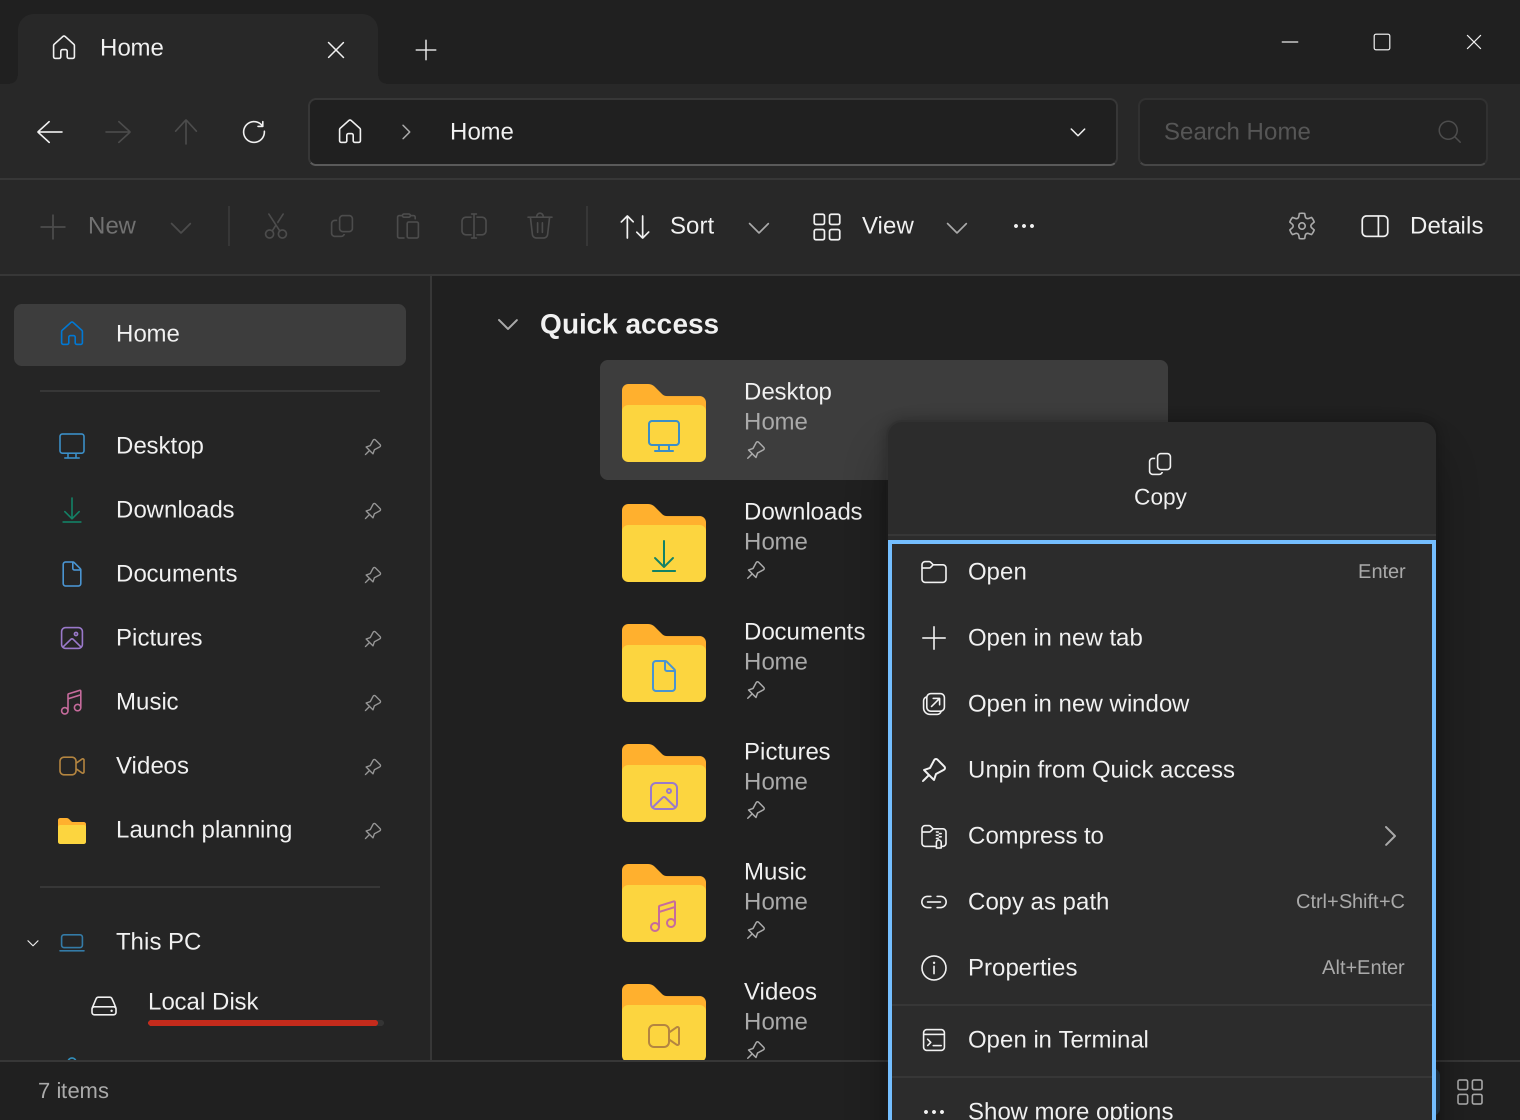
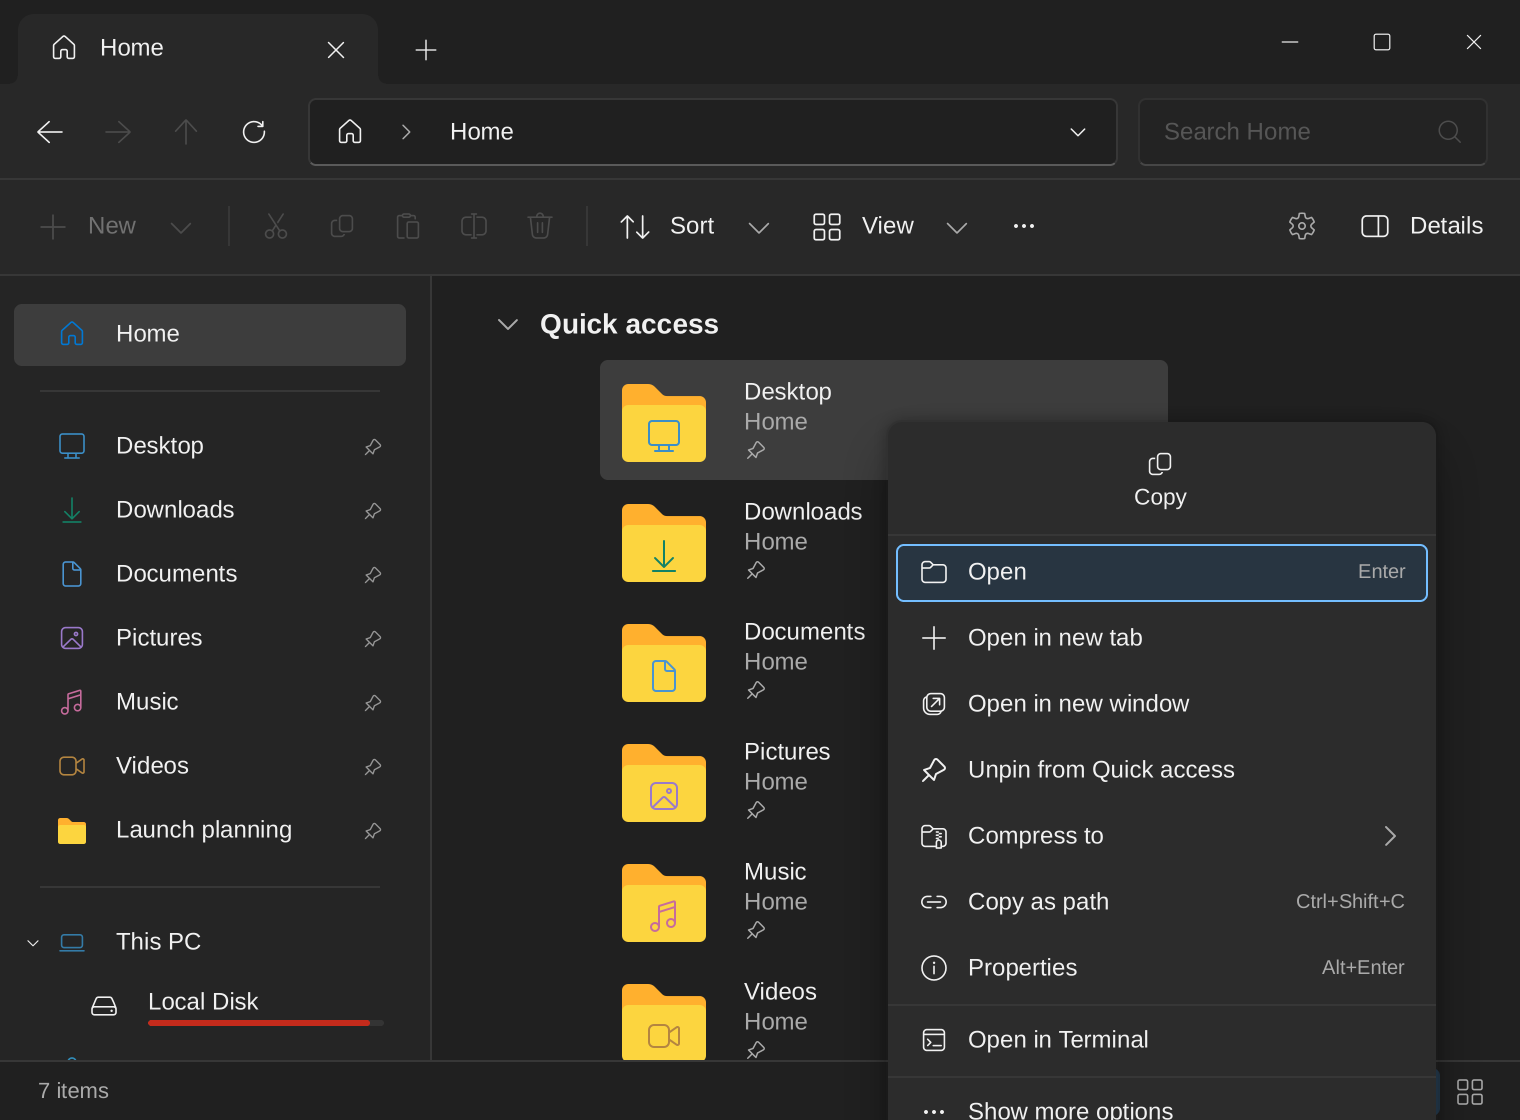
status(windows-differences-2): WORKING, tile menu ring fixed, recaptured

Changed region(s): [[0.5875, 0.4688, 0.9586, 0.5625]]

diff --git a/windows-differences-2-pr.md b/windows-differences-2-pr.md
@@ -12,7 +12,7 @@ This brings nine behaviors in line with Windows 11 File Explorer. Five were chec
 
 | Change | Before | After | Windows |
 |---|---|---|---|
-| Quick access tile menu on Home | A plain list (Open, Open in new tab, Open in new window, Open in Terminal, Open folder with…, Cache this folder for search, Unpin from Quick access, Previous versions, Properties) | Windows 11's menu: Copy in the icon strip, then Open (Enter), Open in new tab, Open in new window, Unpin from Quick access, Compress to ›, Copy as path (Ctrl+Shift+C), Properties (Alt+Enter), Open in Terminal, Show more options. Show more options opens the full classic menu, which keeps the app's own items. Right-click, Menu and Shift+F10 all open it, and the tile gets the keyboard back when it closes. Ctrl+Shift+C on a tile copies its path. | Same list on Windows 11, plus Pin to Start, which is Windows-only and left out |
+| Quick access tile menu on Home | A plain list (Open, Open in new tab, Open in new window, Open in Terminal, Open folder with…, Cache this folder for search, Unpin from Quick access, Previous versions, Properties) | Windows 11's menu: Copy in the icon strip, then Open (Enter), Open in new tab, Open in new window, Unpin from Quick access, Compress to ›, Copy as path (Ctrl+Shift+C), Properties (Alt+Enter), Open in Terminal, Show more options. Show more options opens the full classic menu, which keeps the app's own items. Right-click, Menu and Shift+F10 all open it. The keyboard shows only as the first row's highlight, never as a ring around the whole list, and the tile gets the keyboard back when the menu closes. Ctrl+Shift+C on a tile copies its path. | Same list on Windows 11, plus Pin to Start, which is Windows-only and left out |
 | Wildcard search words | `a?b` had to match the whole name, so it found nothing in a folder with a1b.txt and acb.txt | A wildcard word is found within the name, as a plain word is: `a?b`, `?cb` and `a*b` find a1b.txt and acb.txt. `a?b.txt` and `*` work as before. As with plain words, a match must start before the extension or be the whole extension. Indexed and live searches use the same rule. | `a?b` finds a1b.txt and acb.txt |
 | Tab icons | Downloads, Documents and the other standard folders showed a yellow folder, as did the home folder (when "Open Quick access on Home" is off) | Desktop, Downloads, Documents, Pictures, Music and Videos show their navigation pane glyphs (on the network bar when the folder is on the network), and the home folder shows Home's glyph | The Downloads tab shows the green Downloads glyph |
 | Column title tooltip | "Drag to resize · double-click to fit loaded items (up to 2,000)" | No tooltip. Resizing, double-click to fit and the keys are unchanged, and screen readers still get the description. | No tooltip |
@@ -63,7 +63,7 @@ These are guesses or open points that still need a check on Windows 11:
 
 Each change was written test-first. Each new test failed on unchanged main (or, for 7z, before the writer existed) and passes now:
 
-- Quick access tile menu: `a_quick_access_tiles_menu_is_windows_11s`
+- Quick access tile menu: `a_quick_access_tiles_menu_is_windows_11s`, `a_quick_access_tiles_menu_draws_no_ring_around_its_rows`
 - Wildcards: `a_wildcard_word_matches_within_the_name_as_a_plain_word_does`, `a_wildcard_word_matches_within_the_cached_name`, `a_wildcard_word_finds_names_that_hold_it`
 - Tab icons: `a_standard_folders_tab_shows_its_navigation_pane_glyph`
 - Column titles: `column_titles_show_no_tooltip`
